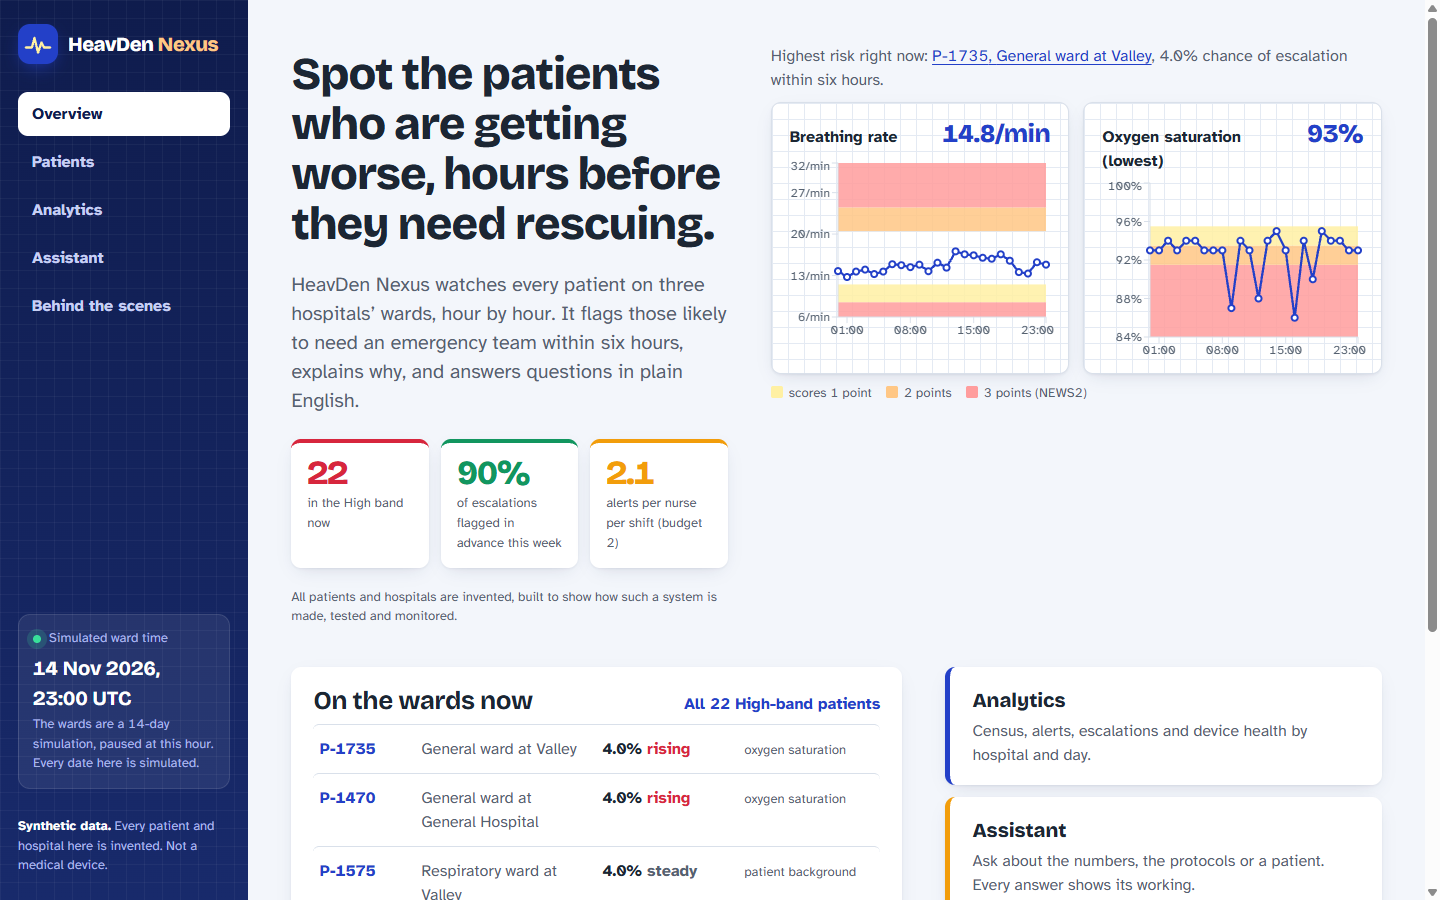
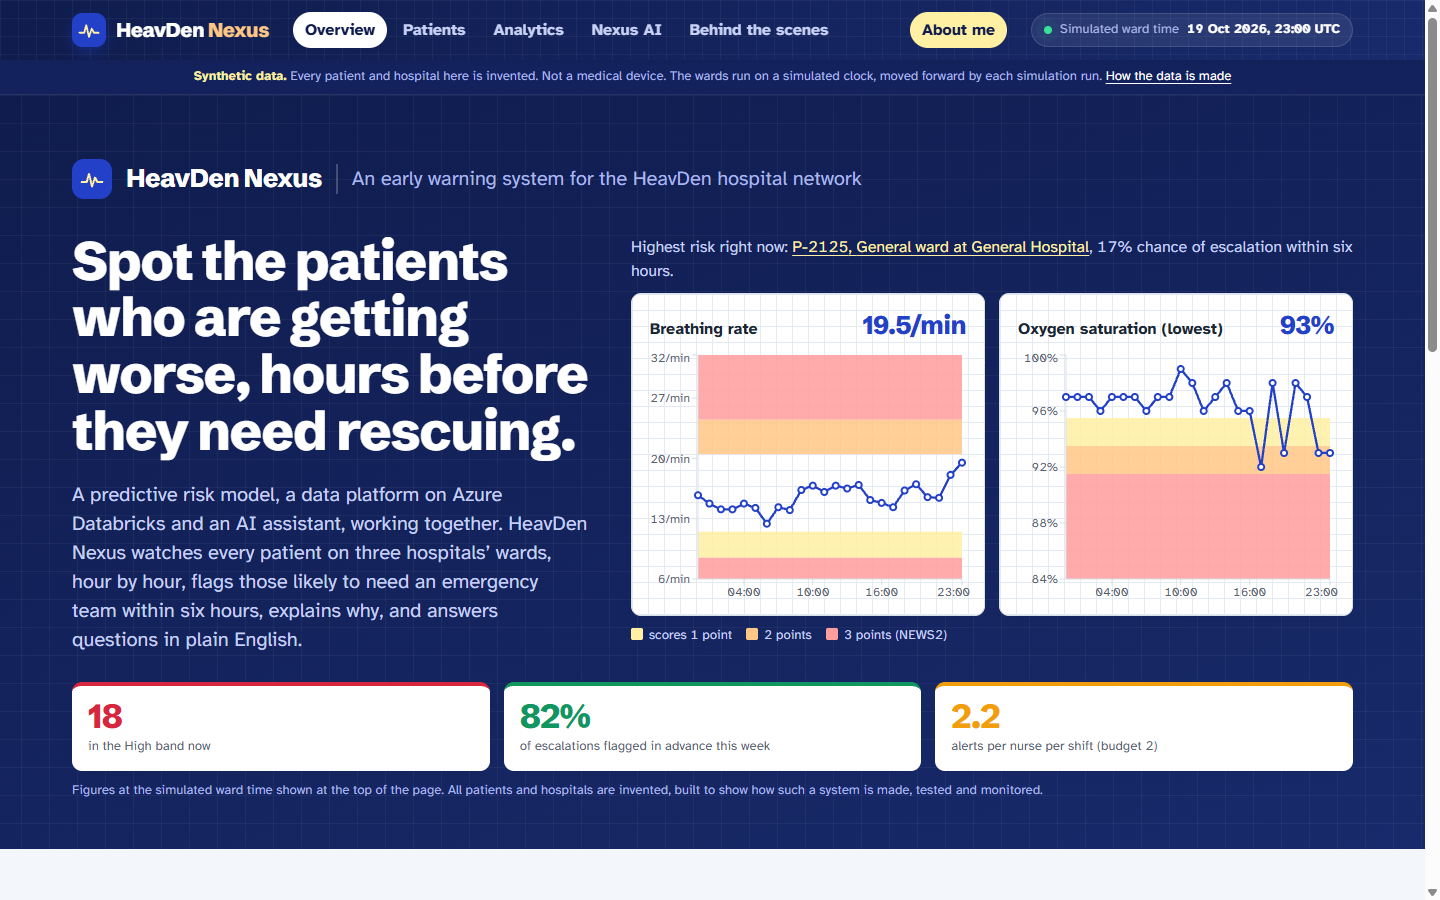
READMEs and screenshots match the live site; LightGBM label

diff --git a/web/app/behind-the-scenes/page.tsx b/web/app/behind-the-scenes/page.tsx
@@ -200,7 +200,7 @@ export default function BehindPage() {
           {h && (
             <p className="small muted">
               Serving model: {h.model.name} version {h.model.version} (
-              {h.model.type === "Pipeline" ? "logistic regression" : h.model.type === "LGBM" ? "LightGBM" : h.model.type}).
+              {h.model.type === "Pipeline" ? "logistic regression" : h.model.type.startsWith("LGBM") ? "LightGBM" : h.model.type}).
               Alert threshold: risk of {riskPct(h.risk_bands.high)} or more. Data as of {when(h.as_of)}.
             </p>
           )}

diff --git a/README.md b/README.md
@@ -4,7 +4,7 @@
 
 HeavDen Nexus watches every inpatient across three fictional hospitals, hour by hour. It estimates each patient's chance of needing an emergency team within the next six hours, raises a limited number of alerts a nurse can act on, explains each score in clinical terms, and answers questions about the wards in plain English, showing the queries and sources behind every answer.
 
-**Built end to end by [Kelvin Ofori-Minta, PhD](https://www.linkedin.com/in/kelvin-ofori-minta-ph-d-9a5692b8), Data, ML & AI Engineer and the developer behind HeavDen.** Available for roles, contracts and projects in any industry: data platforms on Databricks and beyond, predictive models and MLOps, and AI assistants. See [Work with me](#work-with-me).
+**Built end to end by [Kelvin Ofori-Minta, PhD](https://www.linkedin.com/in/kelvin-ofori-minta-ph-d-9a5692b8), Data, ML & AI Engineer and the developer behind HeavDen.** See it live at **[heav-den-nexus.vercel.app](https://heav-den-nexus.vercel.app)**; more about me [below](#about-me).
 
 > **Synthetic data only.** Every patient, hospital and document is invented. This is a portfolio project, not a medical device, and must not be used for real patient care.
 
@@ -45,17 +45,18 @@ The project is built in phases. **Phases 0–5 are complete.** The data platform
 
 **An assistant that shows its working** (`backend/heavden_api/chat/`)
 - One tool-calling loop with three tools: the ward's numbers, search over the hospital's documents (protocols, device manual, runbooks, model card) with citations, and a patient-risk lookup. On Databricks the numbers come from **Genie** and the patient lookup is a Unity Catalog function.
-- Two deployments of the same loop: the **Databricks assistant** on Model Serving (private, traced in MLflow, red-teamed and quality-gated in CI), and the website's assistant inside its API.
+- Two deployments of the same loop: the **Databricks assistant** on Model Serving (private, traced in MLflow, red-teamed and quality-gated in CI), and the website's assistant, **Nexus AI**, inside its API.
 - Prompt-injection and data-leak defences sit before, inside and after the model. When the model writes SQL itself (snapshot mode), the SQL is parsed, allow-listed and run in a locked, read-only sandbox. Answers stream as they are written and remember the conversation for follow-ups.
 
 **A public website** (`web/`, `backend/`)
 - Next.js on Vercel, and FastAPI in one container on Azure Container Apps that scales to zero. Until 31 October the API reads production's Gold tables live, through the SQL warehouse and Genie. After that it serves a weekly snapshot from Azure Blob Storage, so visitors never wake the cloud.
 - Only the website can reach the API: it adds a secret header, and Vercel's CDN keeps page data for 5 minutes. Chat has a per-visitor limit and a daily cap, and the website may keep Databricks' SQL warehouse on for at most 2 hours a day (pages and chat together).
+- Seven pages ([live](https://heav-den-nexus.vercel.app)): the **Overview**, **Patients** (each with a 24-hour chart, the reasons behind the score and a what-if panel), **Analytics**, **Nexus AI** (the chat), **Behind the scenes** (results against NEWS2, how each part was built, the tech stack), **The hospital and its data**, and **About me**.
 
 | | |
 |---|---|
 | ![A patient's last 24 hours, the reasons behind the score, and a what-if panel](docs/images/patient.png) | ![Analytics: census, alert load, escalations flagged in advance and device health](docs/images/analytics.png) |
-| ![The assistant answering with the patient's risk factors and the escalation protocol, with citations](docs/images/assistant.png) | |
+| ![Nexus AI answering with the patient's risk factors and the escalation protocol, with citations](docs/images/assistant.png) | |
 
 ## Results on Databricks (production model, synthetic test period)
 
@@ -247,17 +248,17 @@ tests/                  unit tests
 .github/workflows/      ci.yml (checks + staging), release.yml (prod + website), data runs, retrain, promote, rollback
 ```
 
-## Work with me
+## About me
 
-I'm Kelvin Ofori-Minta, PhD, a Data, ML & AI Engineer and the developer behind HeavDen. HeavDen Nexus is my worked example: I designed and built every part of it. I help teams in any industry, as a hands-on engineer on Databricks or anywhere else, with:
+I'm Kelvin Ofori-Minta, PhD, a Data, ML & AI Engineer and the developer behind HeavDen. HeavDen Nexus is my worked example: I designed and built every part of it. My work spans the whole data lifecycle, across Azure, AWS and Google Cloud:
 
-- **data platforms and pipelines**: ingestion, change data capture, medallion pipelines, data quality, governance, infrastructure as code;
-- **predictive models that earn their place**: baselines, honest evaluation, calibration, explanations;
-- **MLOps and monitoring**: MLflow, CI/CD, drift detection, approval-gated retraining;
-- **AI assistants on your data**: text-to-SQL, document search (RAG), guardrails, evaluation and red-teaming;
-- **data products and cloud cost**: FastAPI and Next.js apps, serverless designs that stay affordable.
+- **data engineering**: ingestion, change data capture, medallion pipelines, data quality, governance, infrastructure as code;
+- **analytics engineering**: governed data models and enterprise-scale dashboards (Power BI, Tableau, Databricks AI/BI);
+- **full-stack data science**: from the first question to a model in production, with honest evaluation, calibration and explanations;
+- **MLOps**: MLflow, CI/CD, drift detection, approval-gated retraining and promotion;
+- **AI engineering**: tool-calling assistants, text-to-SQL, document search (RAG), guardrails, evaluation and red-teaming.
 
-Open to full-time roles, contracts and consulting projects: [email](mailto:kelvinmeyet@gmail.com) · [LinkedIn](https://www.linkedin.com/in/kelvin-ofori-minta-ph-d-9a5692b8) · [GitHub](https://github.com/kelvin-meyet)
+My full tech stack and certifications are on the site's [About me](https://heav-den-nexus.vercel.app/work-with-me) page. Open to full-time, contract and freelance opportunities in data platform, analytics, ML and AI engineering: [email](mailto:kelvinmeyet@gmail.com) · [LinkedIn](https://www.linkedin.com/in/kelvin-ofori-minta-ph-d-9a5692b8)
 
 ## License
 

diff --git a/web/README.md b/web/README.md
@@ -1,6 +1,6 @@
 # HeavDen Nexus web app (Next.js)
 
-The public interface (Plan.md §13): **Patients** (ward list, patient charts, reasons, what-if), **Analytics**, **Assistant** and **Behind the scenes**. All data is synthetic.
+The public website: the **Overview**, **Patients** (ward list, patient charts, reasons, what-if), **Analytics**, **Nexus AI** (the chat), **Behind the scenes**, **The hospital and its data** and **About me**. All data is synthetic.
 
 ## Run it locally
 
@@ -42,14 +42,19 @@ CI runs both on every pull request.
 
 The visual language is a **NEWS2 observation chart**, made lively: values plotted as ink-blue dots on chart paper over the NEWS2 scoring zones (yellow, amber, red), which appear only where they mean a score.
 
-- **Layout:** a sticky deep-ink top bar (brand, navigation, a highlighted "Work with me" link, the simulated ward time) over a thin synthetic-data strip; pages are centred at up to 1640 px, and the Overview and Work with me heroes sit on a full-width white sheet (`.paperBand` in `globals.css`) so wide screens don't show bare margins. Brand and name lines use `.lockup` (name plus a sentence-case descriptor), not an all-caps eyebrow. Below 1180 px the links move behind a Menu button (closes on Escape or when a link is chosen).
+- **Layout:** a sticky deep-ink top bar (brand, navigation, a highlighted "About me" button, the simulated ward time) over a dark synthetic-data strip. Every page opens with a full-width dark hero (`components/PageHero.tsx`: the title and introduction take about 70% of the width, an optional panel about 20%), and content runs to 5% from each edge of the screen (`--gutter` in `globals.css`). Full-width bands: `.nightBand` (dark) and `.whiteBand` in `globals.css`. Brand and name lines use `.lockup` (name plus a sentence-case descriptor), not an all-caps eyebrow. Below 1180 px the links move behind a Menu button (closes on Escape or when a link is chosen).
+- **Wording:** a personal portfolio for a job search. The About page shows what I've built and the roles I'm open to and offers no services (Vercel's Hobby plan is for non-commercial use). The code is shared on request: no page links to the repository (`CODE_PAGE` in `lib/site.ts`).
 - **Colour carries meaning:** ink blue for data, red only for the High band and the alert threshold, amber for alert load, green for things going well (escalations flagged in advance). Headline figures carry the colour of what they measure.
 - **Type:** Schibsted Grotesk for headings and big figures (a newsroom grotesk made for confident headlines), with proportional figures so full stops and commas don't take a digit's width; Atkinson Hyperlegible for text and numbers, designed so characters can't be confused (0/O, 1/l), which matters when a number is a vital sign.
-- **Motion:** used once, with purpose: the hero charts draw themselves in, and a live dot pulses beside the ward time. Everything respects "reduce motion".
+- **Motion:** used sparingly, with purpose: the hero charts draw themselves in, a live dot pulses beside the ward time, a heartbeat trace shows what is waking up while the API or the SQL warehouse is cold (`WakeNotice` in `components/bits.tsx`), and the tech stack's cards cascade in once. Everything respects "reduce motion".
 
 Code:
 
 - `components/Shell.tsx`: the top-bar app shell
+- `components/PageHero.tsx`: every page's full-width dark hero
+- `components/ProofTiles.tsx`: the project's measured results (Behind the scenes)
+- `components/TechStack.tsx` and `lib/stack.ts`: the tech stacks (this project's, and the About page's)
+- `lib/site.ts`: name, title, contact and the code-on-request links
 - `components/ObsChart.tsx`: the observation chart used for every time series
 - `components/SizedChart.tsx`: measures its own width, so charts size reliably in any layout
 - `lib/news2.ts`: the NEWS2 zones per vital sign
